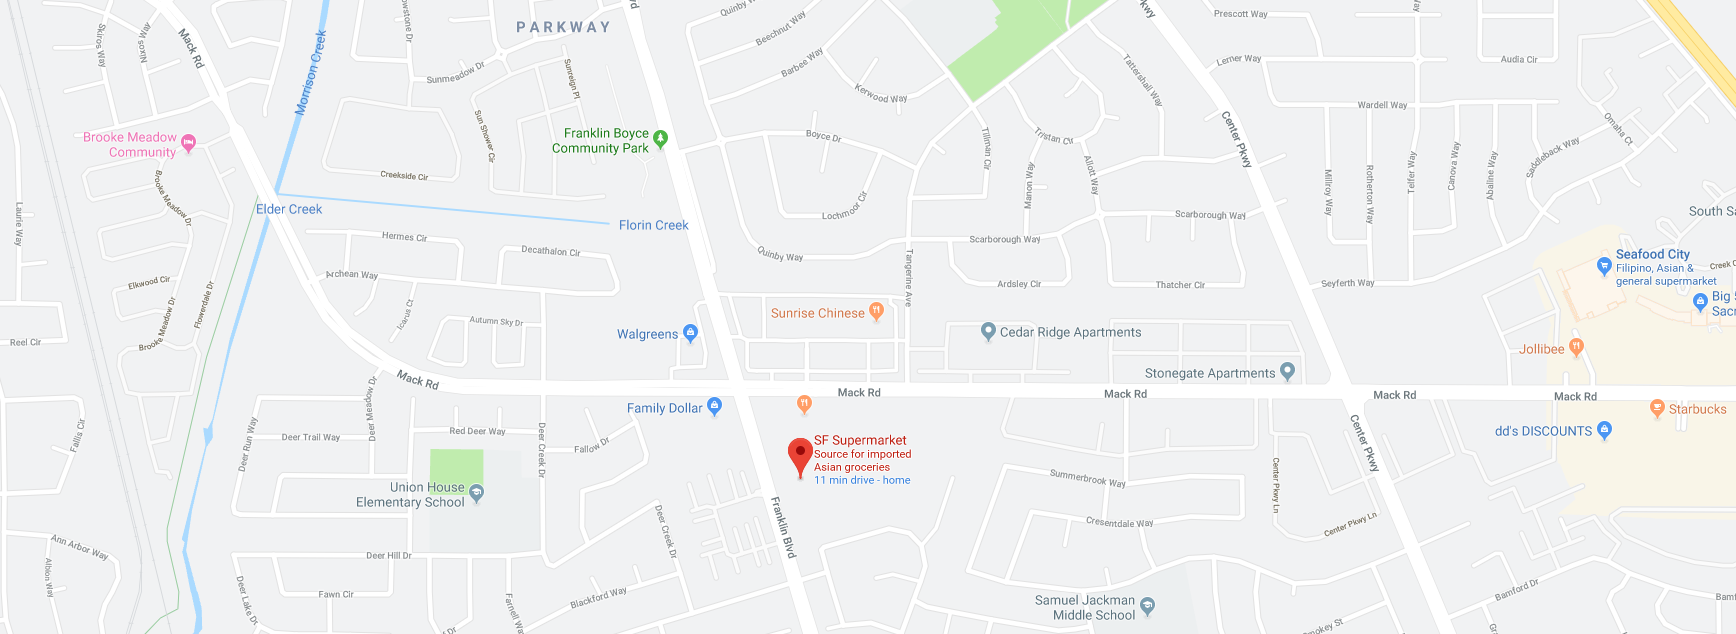
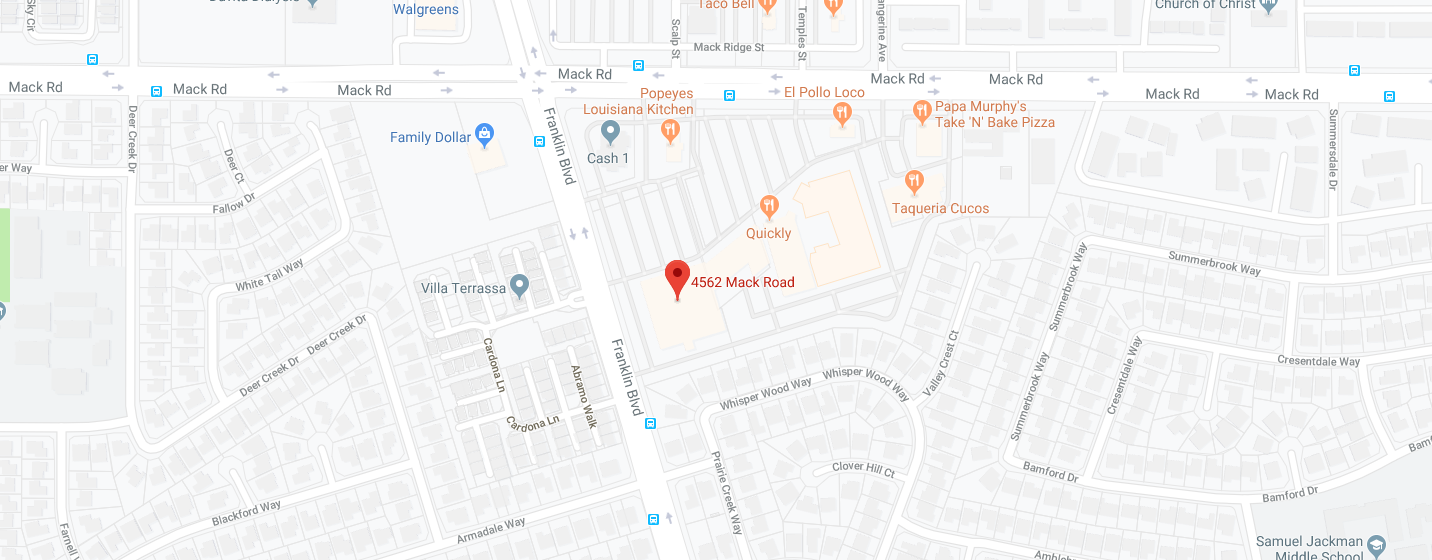
new map and remove ckeditor from aftercare

diff --git a/src/views/AfterCare.vue b/src/views/AfterCare.vue
@@ -5,8 +5,8 @@
   >
     <base-subheading>After Care</base-subheading>
     <under-construction/>
-    <ckeditor :editor="editor" v-model="editorData" :config="editorConfig"></ckeditor>
-    <p v-html="editorData"></p>
+    <!-- <ckeditor :editor="editor" v-model="editorData" :config="editorConfig"></ckeditor>
+    <p v-html="editorData"></p> -->
   </v-container>
 </template>
 
